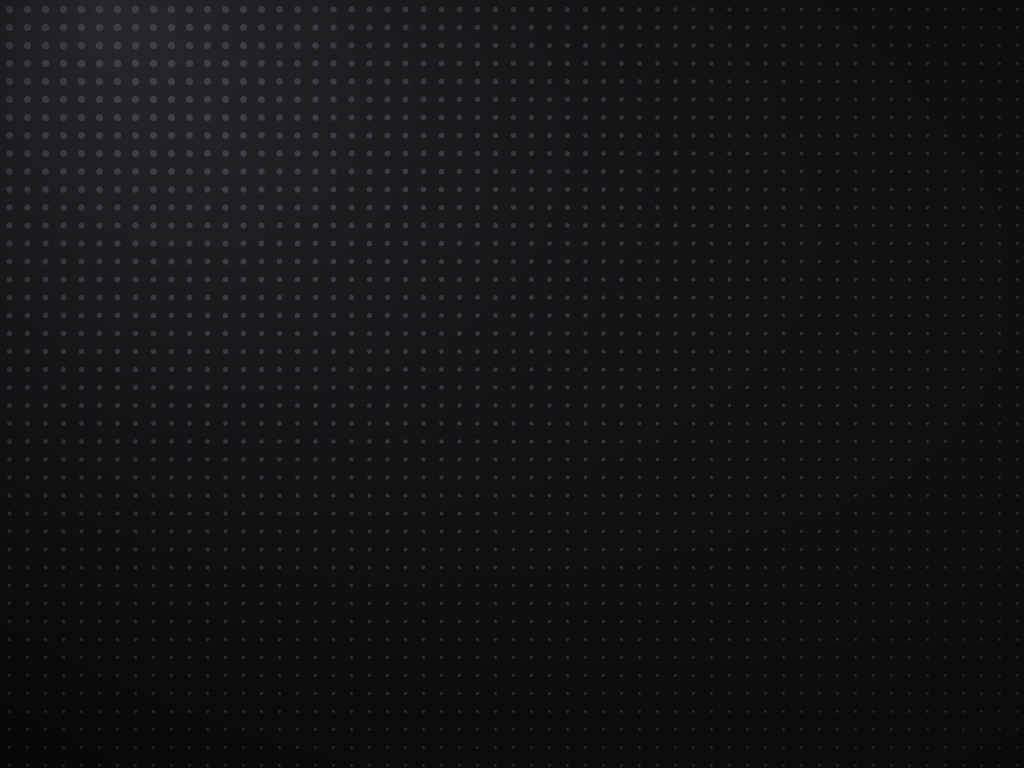
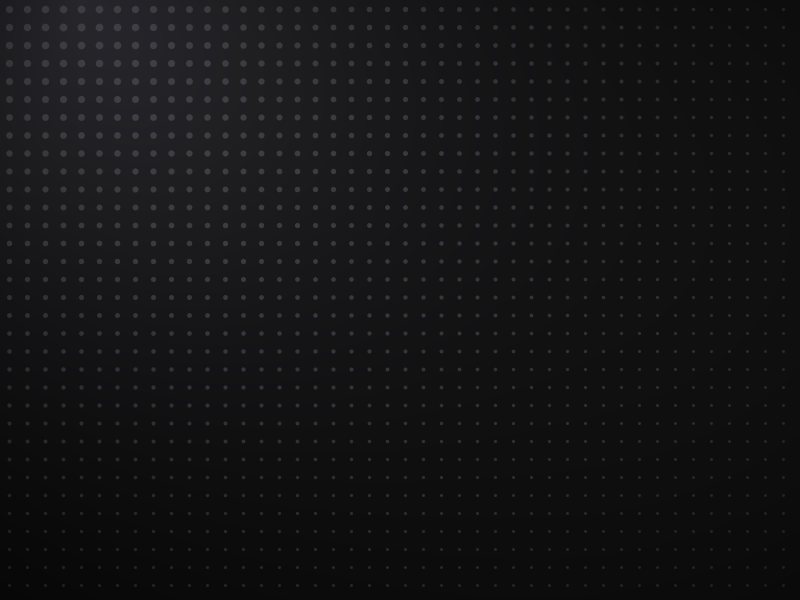
Looks pictures 2026-11-02 20:44

diff --git a/make_looks.py b/make_looks.py
@@ -15,7 +15,7 @@ import math, os, random, sys
 import numpy as np
 from PIL import Image, ImageDraw, ImageFilter
 
-W, H = 1024, 768                    # static pictures (Roblox draws up to 1024)
+W, H = 800, 600                     # static pictures: 800 x 600 (a 1024 px still cost up to 71 ms of texture upload when it first shows; this is about 40 % less)
 GW, GH, GN, GD = 160, 120, 24, 90   # GIF size, frames, ms per frame
 TW, TH, TCOLS = 192, 120, 3         # thumbnail cell, atlas columns
 
@@ -24,7 +24,7 @@ LOOKS = [
     ("carbon",    "carbon.jpg",    "#111113", "#E8B84A", "#19191C", 0.30),
     ("ember",     "ember.gif",     "#140C0A", "#FF7A3D", "#1E1210", 0.30),
     ("velvet",    "velvet.jpg",    "#14080B", "#E5484D", "#1E0D11", 0.28),
-    ("synthwave", "synthwave.gif", "#120A1A", "#FF4FA3", "#1C1026", 0.32),
+    ("synthwave", "synthwave.gif", "#120A1A", "#FF4FA3", "#1C1026", 0.40),
     ("nebula",    "nebula.jpg",    "#0F0B1A", "#9B6BFF", "#171127", 0.28),
     ("midnight",  "midnight.jpg",  "#0A0F1E", "#4C8DFF", "#111A2E", 0.25),
     ("aurora",    "aurora.gif",    "#08121A", "#5AD1E6", "#0F1D26", 0.30),

diff --git a/README.md b/README.md
@@ -9,15 +9,15 @@ Run `python make_looks.py .` to draw them again.
 
 | look | file | kind |
 |---|---|---|
-| carbon | `looks/carbon.jpg` | still, 1024 x 768 |
+| carbon | `looks/carbon.jpg` | still, 800 x 600 |
 | ember | `looks/ember.gif` | animated GIF, 160 x 120 |
-| velvet | `looks/velvet.jpg` | still, 1024 x 768 |
+| velvet | `looks/velvet.jpg` | still, 800 x 600 |
 | synthwave | `looks/synthwave.gif` | animated GIF, 160 x 120 |
-| nebula | `looks/nebula.jpg` | still, 1024 x 768 |
-| midnight | `looks/midnight.jpg` | still, 1024 x 768 |
+| nebula | `looks/nebula.jpg` | still, 800 x 600 |
+| midnight | `looks/midnight.jpg` | still, 800 x 600 |
 | aurora | `looks/aurora.gif` | animated GIF, 160 x 120 |
-| jade | `looks/jade.png` | still, 1024 x 768 |
-| mono | `looks/mono.png` | still, 1024 x 768 |
+| jade | `looks/jade.png` | still, 800 x 600 |
+| mono | `looks/mono.png` | still, 800 x 600 |
 
 `thumbs.png` holds the card previews (192 x 120 cells, three columns, in the order above).
 
